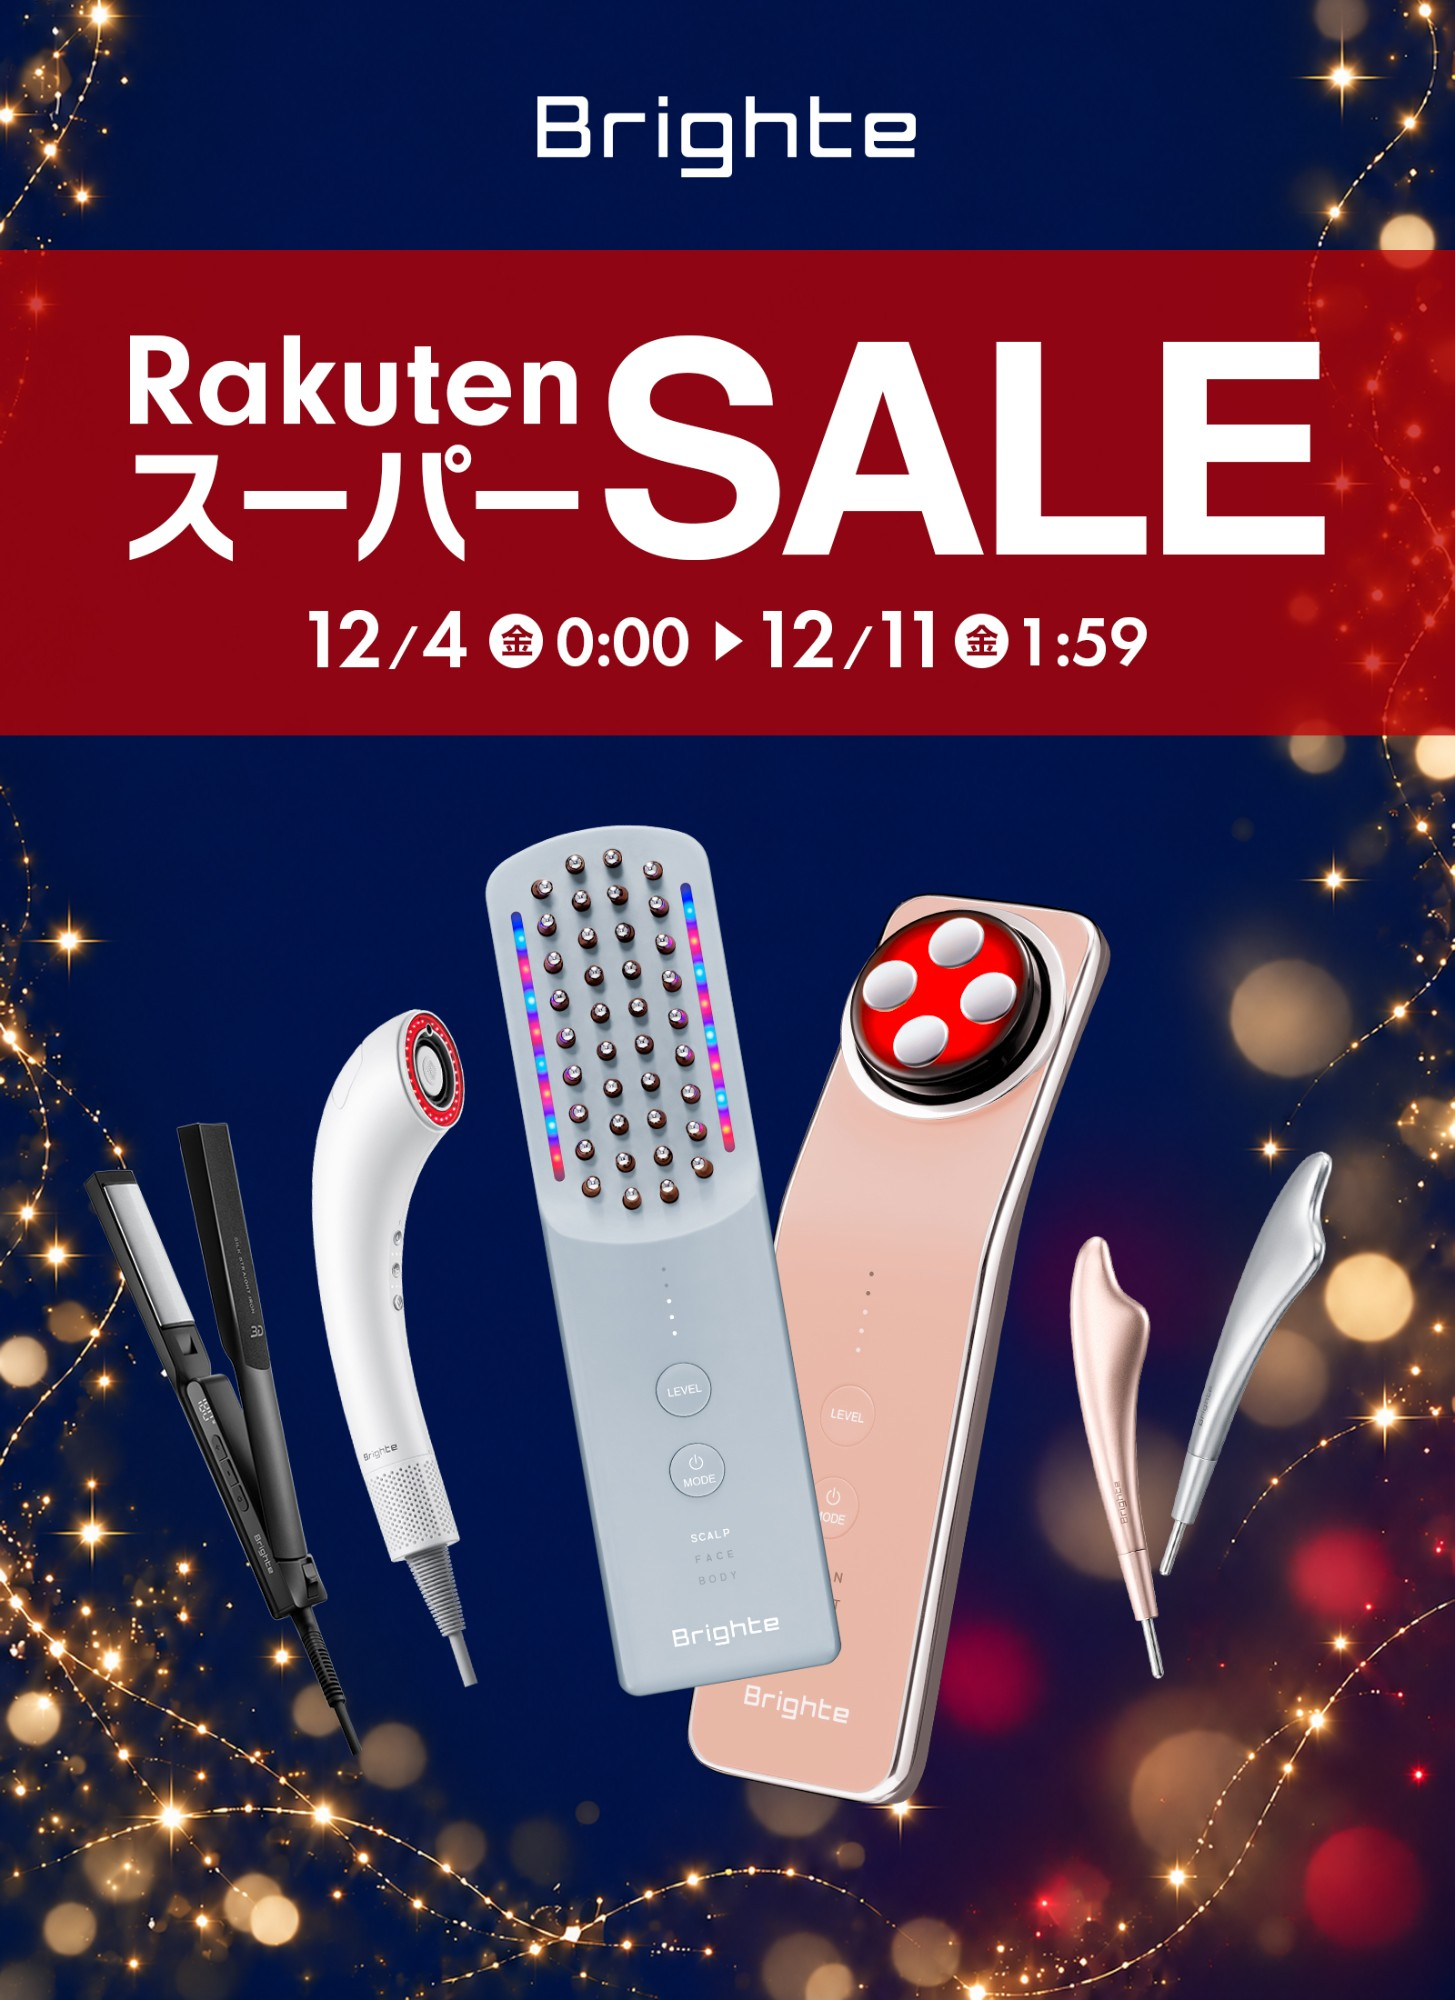
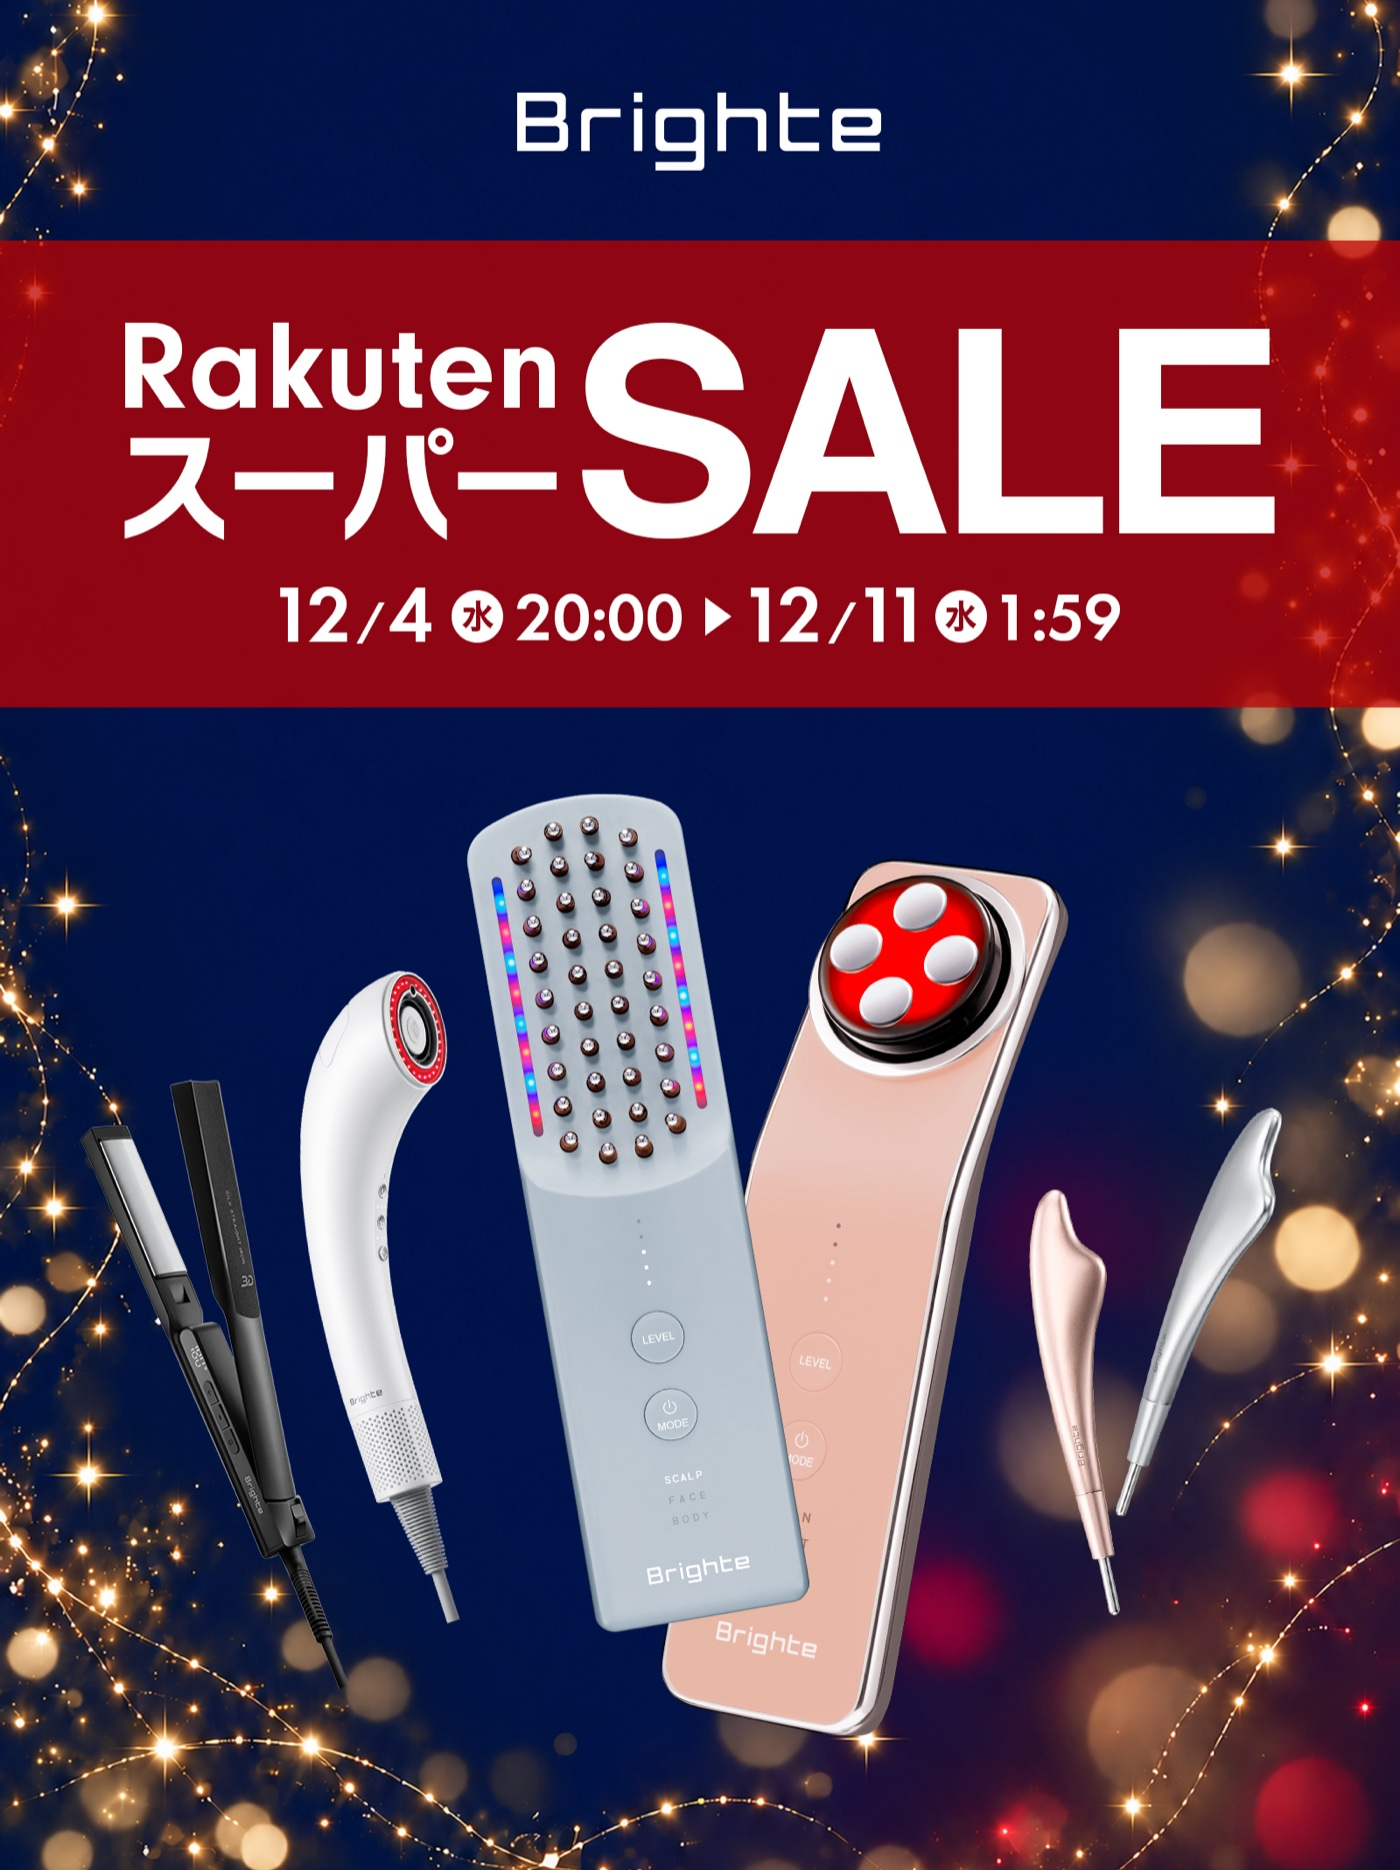
fix: 看板画像を開始20:00版に差し替え

diff --git a/index.html b/index.html
@@ -404,7 +404,7 @@ footer .law{font-size:14px}
 <main class="page">
 
 <!-- ▼ FV: 支給の看板画像 -->
-<h1 class="kanban"><canvas class="kanban-snow" id="kanbanSnow" aria-hidden="true"></canvas><img src="images/kanban.jpg" alt="Brighte 楽天スーパーSALE 12/4(金)0:00〜12/11(金)1:59" width="1455" height="2000"></h1>
+<h1 class="kanban"><canvas class="kanban-snow" id="kanbanSnow" aria-hidden="true"></canvas><img src="images/kanban.jpg" alt="Brighte 楽天スーパーSALE 12/4 20:00〜12/11 1:59" width="1400" height="1870"></h1>
 
 <!-- ▼ 旧FV(コードで組んだ看板・写真・日付)。看板画像に差し替えたため非表示 -->
 <div class="sky" hidden>
